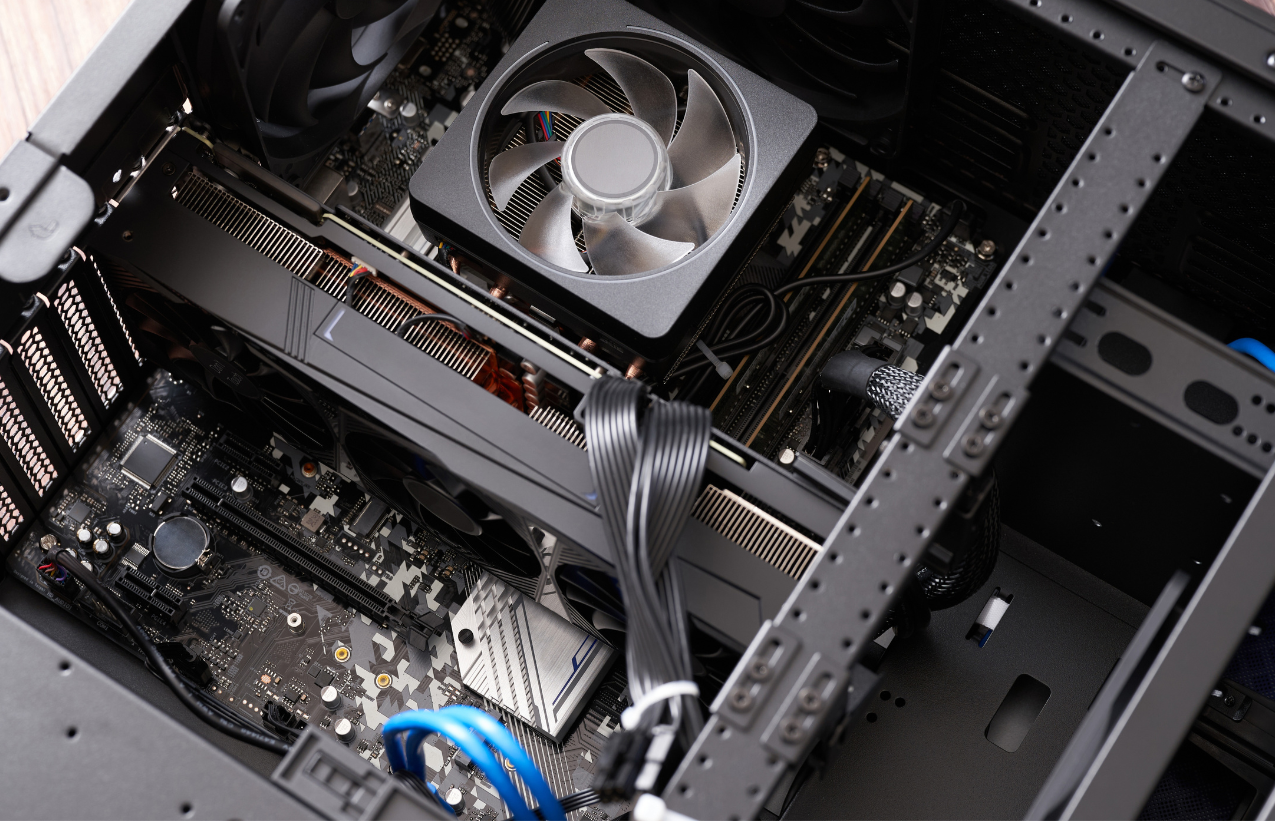
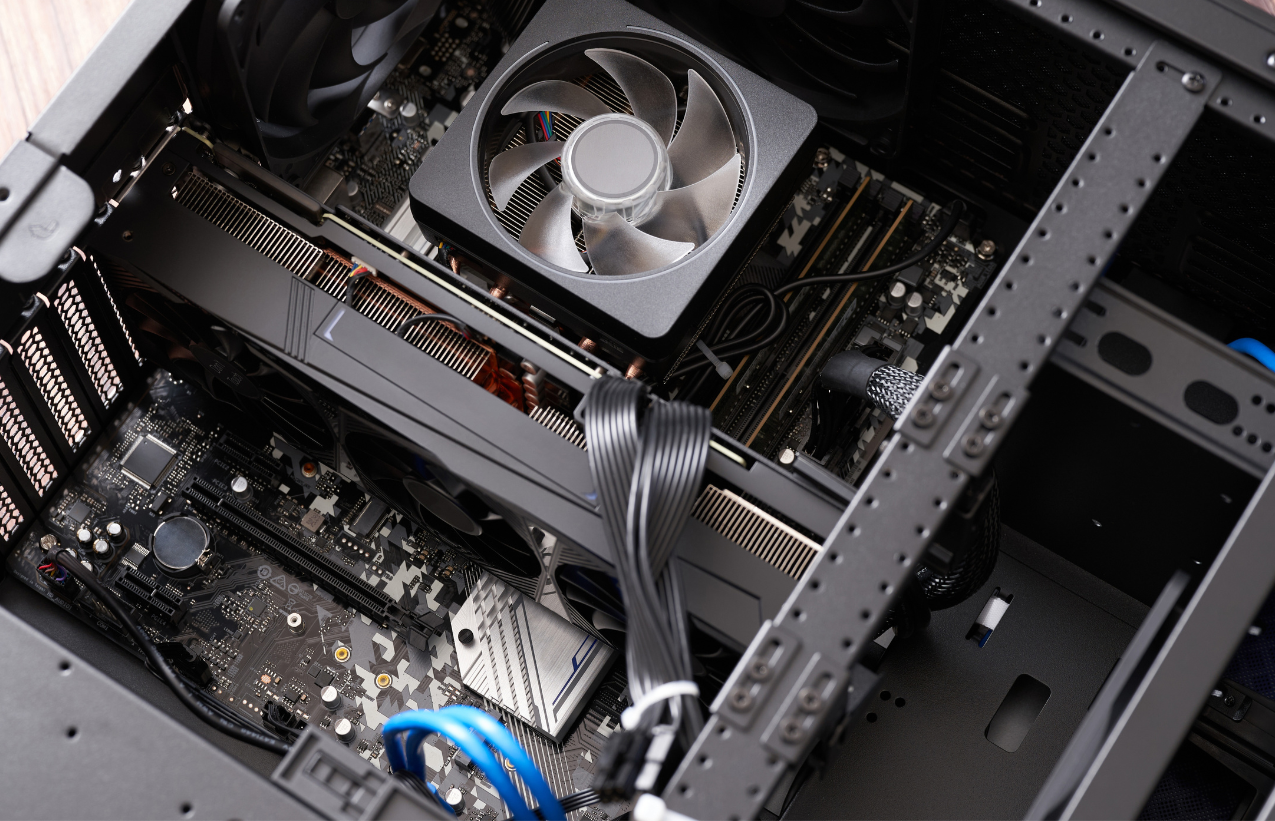
Refresh login and dashboard artwork and layout
Add reusable surface artwork and sidebar imagery, update login composition and remove the separate login layout file.

diff --git a/CustomPC/DashboardForm.Layout.cs b/CustomPC/DashboardForm.Layout.cs
@@ -15,28 +15,32 @@ public partial class DashboardForm
     private static void PaintMetric(object? sender, PaintEventArgs e)
     {
         if (sender is not Label label) return;
+        float scale = label.DeviceDpi / 96F;
+        int Px(int value) => (int)(value * scale);
         e.Graphics.SmoothingMode = System.Drawing.Drawing2D.SmoothingMode.AntiAlias;
         using SolidBrush background = new(Color.White);
         e.Graphics.FillRectangle(background, label.ClientRectangle);
         string[] lines = label.Text.Split('\n', 2);
         Font valueFont = AppFonts.Heading(label.Width < 240 ? 20 : 23);
-        while (valueFont.Size > 14 && TextRenderer.MeasureText(lines[0], valueFont).Width > label.Width - 40)
+        while (valueFont.Size > 14 && TextRenderer.MeasureText(lines[0], valueFont).Width > label.Width - Px(40))
         {
             float smaller = valueFont.Size - 1;
             valueFont.Dispose(); valueFont = AppFonts.Heading(smaller);
         }
         using Font captionFont = AppFonts.Body(10);
         using (valueFont)
-            TextRenderer.DrawText(e.Graphics, lines[0], valueFont, new Rectangle(20, 17, Math.Max(1, label.Width - 40), 40), StoreTheme.Ink,
-                TextFormatFlags.VerticalCenter | TextFormatFlags.EndEllipsis | TextFormatFlags.NoPrefix);
-        TextRenderer.DrawText(e.Graphics, lines.Length > 1 ? lines[1] : "", captionFont, new Rectangle(20, 60, Math.Max(1, label.Width - 40), 26), StoreTheme.Muted,
-            TextFormatFlags.VerticalCenter | TextFormatFlags.EndEllipsis | TextFormatFlags.NoPrefix);
+            TextRenderer.DrawText(e.Graphics, lines[0], valueFont, new Rectangle(Px(20), Px(14), Math.Max(1, label.Width - Px(40)), Px(42)), StoreTheme.Ink,
+                TextFormatFlags.Left | TextFormatFlags.VerticalCenter | TextFormatFlags.EndEllipsis | TextFormatFlags.NoPrefix);
+        TextRenderer.DrawText(e.Graphics, lines.Length > 1 ? lines[1] : "", captionFont, new Rectangle(Px(20), Px(60), Math.Max(1, label.Width - Px(40)), Px(28)), StoreTheme.Muted,
+            TextFormatFlags.Left | TextFormatFlags.VerticalCenter | TextFormatFlags.EndEllipsis | TextFormatFlags.NoPrefix);
     }
 
     private void BuildAdaptiveShell()
     {
         MinimumSize = new Size(720, 600);
         sidebar.BackColor = brand.BackColor = brandCaption.BackColor = logo.BackColor = StoreTheme.Ink;
+        SurfaceArtwork.Attach(sidebar, "sidebar.png");
+        brand.BackColor = brandCaption.BackColor = logo.BackColor = Color.Transparent;
         overviewViewport = new Panel { Name = "overviewViewport", AutoScroll = true, BackColor = StoreTheme.Background };
         overviewCanvas = new Panel { Name = "overviewCanvas", BackColor = StoreTheme.Background };
         overviewViewport.Controls.Add(overviewCanvas);
@@ -50,7 +54,13 @@ public partial class DashboardForm
         sidebar.Controls.Add(navigationCaption); sidebar.Controls.Add(accountName); sidebar.Controls.Add(accountRole);
         navigationList = new Panel { Name = "navigationList", AutoScroll = true, BackColor = StoreTheme.Ink };
         sidebar.Controls.Add(navigationList);
-        foreach (Button button in new[] { home, catalog, builder, orders, inventory, users, reports, tools }) button.Parent = navigationList;
+        navigationList.Paint += (_, e) => SurfaceArtwork.Paint(e.Graphics, navigationList);
+        navigationCaption.BackColor = accountName.BackColor = accountRole.BackColor = Color.Transparent;
+        foreach (Button button in new[] { home, catalog, builder, orders, inventory, users, reports, tools })
+        {
+            button.Parent = navigationList;
+            button.Anchor = AnchorStyles.Top | AnchorStyles.Left;
+        }
         foreach (Button button in new[] { home, catalog, builder, orders, inventory, users, reports, tools, signout })
         {
             button.AccessibleName = button.Text;
@@ -71,13 +81,15 @@ public partial class DashboardForm
             value.Font = AppFonts.Body(14, FontStyle.Bold);
             value.Paint += PaintMetric;
         }
-        shoppingActions = new FlowLayoutPanel { BackColor = StoreTheme.Ink, WrapContents = true };
+        shoppingActions = new FlowLayoutPanel { BackColor = Color.Transparent, WrapContents = true };
         var startBuild = new Button { Name = "builder", Text = "Open PC builder", BackColor = StoreTheme.Green, Size = new Size(210, 44) };
         var browse = new Button { Name = "catalog", Text = "Explore parts", BackColor = Color.White, Size = new Size(190, 44) };
         startBuild.Click += (_, _) => OpenScreen("Builder"); browse.Click += (_, _) => OpenScreen("Catalog");
         shoppingActions.Controls.Add(startBuild); shoppingActions.Controls.Add(browse); workflowSurface.Controls.Add(shoppingActions);
         workflowSurface.BackColor = StoreTheme.Ink;
-        workflowTitle.BackColor = guide.BackColor = StoreTheme.Ink;
+        SurfaceArtwork.Attach(workflowSurface, "backdrop.png", Color.FromArgb(218, 24, 43, 30));
+        workflowTitle.BackColor = guide.BackColor = Color.Transparent;
+        guide.Anchor = AnchorStyles.Top | AnchorStyles.Left;
         workflowTitle.ForeColor = Color.White; guide.ForeColor = Color.FromArgb(211, 228, 217);
         FitWorkspace();
     }
@@ -96,11 +108,12 @@ public partial class DashboardForm
             pageHost.SetBounds(side, 0, Math.Max(1, ClientSize.Width - side), ClientSize.Height);
             overviewViewport.Bounds = pageHost.Bounds;
             logo.SetBounds(Px(rail ? 18 : 22), Px(24), Px(40), Px(40));
-            brand.Visible = brandCaption.Visible = navigationCaption!.Visible = !rail;
+            brand.Visible = navigationCaption!.Visible = !rail;
+            brandCaption.Visible = false;
             brand.SetBounds(Px(72), Px(24), Px(146), Px(36));
             brandCaption.SetBounds(Px(24), Px(76), side - Px(40), Px(22));
-            navigationCaption.SetBounds(Px(24), Px(118), side - Px(40), Px(24));
-            int top = Px(rail ? 94 : 154);
+            navigationCaption.SetBounds(Px(24), Px(90), side - Px(40), Px(24));
+            int top = Px(rail ? 94 : 126);
             navigationList!.SetBounds(0, top, side, Math.Max(Px(90), ClientSize.Height - top - Px(rail ? 80 : 142)));
             top = 0;
             foreach (Button button in new[] { home, catalog, builder, orders, inventory, users, reports, tools })
@@ -170,12 +183,11 @@ public partial class DashboardForm
             }
             else
             {
-                workflowSurface.SetBounds(x, y, width, Px(210));
+                workflowSurface.SetBounds(x, y, width, Px(178));
                 workflowTitle.Text = "Build a PC. Make it yours.";
                 workflowTitle.SetBounds(Px(24), Px(22), width - Px(48), Px(48));
-                guide.Text = "Choose compatible parts, reserve your build, and pay at the store.";
-                guide.SetBounds(Px(24), Px(76), width - Px(48), Px(40));
-                shoppingActions!.SetBounds(Px(24), Px(128), width - Px(48), Px(72));
+                guide.Visible = false;
+                shoppingActions!.SetBounds(Px(24), Px(96), width - Px(48), Px(72));
                 y = workflowSurface.Bottom + Px(20);
                 Label[] values = { statParts, statOrders, statStock, statSales }; Label[] captions = { statPartsCaption, statOrdersCaption, statStockCaption, statSalesCaption };
                 int[] items = AppStore.Current.IsCustomer ? new[] { 0, 1, 2, 3 } : new[] { 0, 2, 3 };

diff --git a/CustomPC/LoginForm.Designer.cs b/CustomPC/LoginForm.Designer.cs
@@ -126,39 +126,33 @@ partial class LoginForm
         login.Cursor = Cursors.Hand;
         login.UseMnemonic = false;
         Controls.Add(login);
-        register = new Button();
+        register = new LinkLabel();
         register.Name = "register";
-        register.Location = new Point(458, 441);
-        register.Size = new Size(228, 46);
-        register.TabIndex = 13;
-        register.Text = "Create account";
-        register.Font = new Font("Roboto", 10F, FontStyle.Bold);
-        register.ForeColor = Color.FromArgb(32, 41, 35);
+        register.Text = "New to CustomPC? Create account";
+        register.LinkArea = new LinkArea(register.Text.IndexOf("Create account", StringComparison.Ordinal), "Create account".Length);
+        register.Font = new Font("Segoe UI", 10.5F);
+        register.ForeColor = StoreTheme.Muted;
+        register.LinkColor = StoreTheme.Action;
+        register.ActiveLinkColor = Color.FromArgb(14, 87, 58);
+        register.VisitedLinkColor = StoreTheme.Action;
+        register.LinkBehavior = LinkBehavior.HoverUnderline;
+        register.TextAlign = ContentAlignment.MiddleCenter;
         register.BackColor = Color.White;
-        register.FlatStyle = FlatStyle.Flat;
-        register.FlatAppearance.BorderSize = 1;
-        register.FlatAppearance.BorderColor = Color.FromArgb(112, 133, 107);
-        register.FlatAppearance.MouseOverBackColor = Color.FromArgb(235, 243, 231);
-        register.FlatAppearance.MouseDownBackColor = Color.FromArgb(224, 240, 215);
-        register.Cursor = Cursors.Hand;
-        register.UseMnemonic = false;
+        register.TabIndex = 13;
+        register.TabStop = true;
         Controls.Add(register);
-        guest = new Button();
+        guest = new LinkLabel();
         guest.Name = "guest";
-        guest.Location = new Point(700, 441);
-        guest.Size = new Size(232, 46);
-        guest.TabIndex = 14;
         guest.Text = "Browse as guest";
-        guest.Font = new Font("Roboto", 10F, FontStyle.Bold);
-        guest.ForeColor = Color.FromArgb(32, 41, 35);
+        guest.Font = new Font("Segoe UI", 10.5F);
+        guest.LinkColor = StoreTheme.Action;
+        guest.ActiveLinkColor = Color.FromArgb(14, 87, 58);
+        guest.VisitedLinkColor = StoreTheme.Action;
+        guest.LinkBehavior = LinkBehavior.HoverUnderline;
+        guest.TextAlign = ContentAlignment.MiddleCenter;
         guest.BackColor = Color.White;
-        guest.FlatStyle = FlatStyle.Flat;
-        guest.FlatAppearance.BorderSize = 1;
-        guest.FlatAppearance.BorderColor = Color.FromArgb(112, 133, 107);
-        guest.FlatAppearance.MouseOverBackColor = Color.FromArgb(235, 243, 231);
-        guest.FlatAppearance.MouseDownBackColor = Color.FromArgb(224, 240, 215);
-        guest.Cursor = Cursors.Hand;
-        guest.UseMnemonic = false;
+        guest.TabIndex = 14;
+        guest.TabStop = true;
         Controls.Add(guest);
         AutoScaleDimensions = new SizeF(7F, 17F);
         AutoScaleMode = AutoScaleMode.Font;
@@ -211,14 +205,14 @@ partial class LoginForm
         authSurface.Controls.Add(login);
         login.Location = new Point(32, 354);
         authSurface.Controls.Add(register);
-        register.Location = new Point(32, 420);
+        register.Location = new Point(32, 422);
         authSurface.Controls.Add(guest);
-        guest.Location = new Point(272, 420);
+        guest.Location = new Point(32, 464);
         email.Width = 454;
         password.Width = 454;
         login.Width = 454;
-        register.Width = 214;
-        guest.Width = 214;
+        register.Size = new Size(454, 34);
+        guest.Size = new Size(454, 34);
         ResumeLayout(false);
         PerformLayout();
     }
@@ -233,8 +227,8 @@ partial class LoginForm
     private Label passwordLabel = null!;
     private StoreTextField password = null!;
     private Button login = null!;
-    private Button register = null!;
-    private Button guest = null!;
+    private LinkLabel register = null!;
+    private LinkLabel guest = null!;
     private Label loginHero = null!;
     private Panel authSurface = null!;
 }

diff --git a/CustomPC/StoreTheme.cs b/CustomPC/StoreTheme.cs
@@ -113,12 +113,13 @@ public static class StoreTheme
         if (!button.Enabled) fill = Color.FromArgb(236, 239, 236);
         else if (state.Pressed) fill = primary ? Color.FromArgb(14, 87, 58) : Color.FromArgb(224, 233, 229);
         else if (state.Hover) fill = dark ? Color.FromArgb(40, 57, 51) : primary ? Color.FromArgb(16, 103, 68) : Color.FromArgb(241, 245, 243);
-        e.Graphics.Clear(button.Parent?.BackColor ?? Background);
+        SurfaceArtwork.Paint(e.Graphics, button);
         e.Graphics.SmoothingMode = SmoothingMode.AntiAlias;
         Rectangle bounds = new(1, 1, Math.Max(1, button.Width - 3), Math.Max(1, button.Height - 3));
         using GraphicsPath shape = RoundedRectangle(bounds, 8);
         using SolidBrush brush = new(fill);
-        e.Graphics.FillPath(brush, shape);
+        if (!navigation || selected || state.Hover || state.Pressed || !dark)
+            e.Graphics.FillPath(brush, shape);
         if (!primary && !dark && !navigation && !categoryFilter && button.Name != "details")
         {
             using Pen outline = new(Border);
@@ -138,14 +139,14 @@ public static class StoreTheme
         Rectangle textBounds = bounds;
         if (icon != "")
         {
-            int textWidth = Math.Min(Math.Max(1, button.Width - 50), TextRenderer.MeasureText(button.Text, button.Font).Width);
+            int textWidth = TextRenderer.MeasureText(button.Text, button.Font).Width;
             int iconLeft = compactNavigation ? (button.Width - 20) / 2 : navigation ? 14 : Math.Max(12, (button.Width - textWidth - 26) / 2);
             IconAssets.Paint(e.Graphics, icon, new Rectangle(iconLeft, (button.Height - 20) / 2, 20, 20), text);
             textBounds.X = iconLeft + 26; textBounds.Width = Math.Max(1, button.Width - textBounds.X - 12);
         }
         if (categoryFilter) { textBounds.X += 14; textBounds.Width -= 24; }
         TextRenderer.DrawText(e.Graphics, compactNavigation ? "" : button.Text, selected ? emphasis : button.Font, textBounds, text,
-            (navigation || categoryFilter ? TextFormatFlags.Left : TextFormatFlags.HorizontalCenter) | TextFormatFlags.VerticalCenter | TextFormatFlags.EndEllipsis | TextFormatFlags.NoPrefix);
+            (navigation || categoryFilter || icon != "" ? TextFormatFlags.Left : TextFormatFlags.HorizontalCenter) | TextFormatFlags.VerticalCenter | TextFormatFlags.EndEllipsis | TextFormatFlags.NoPrefix);
         if (button.Focused)
         {
             using var focus = RoundedRectangle(Rectangle.Inflate(bounds, -4, -4), 5);

diff --git a/CustomPC/SurfaceArtwork.cs b/CustomPC/SurfaceArtwork.cs
@@ -1,0 +1,40 @@
+namespace CustomPC;
+
+internal static class SurfaceArtwork
+{
+    private static readonly Dictionary<string, Image> images = new();
+    private sealed record Artwork(Image Image, Color Tint);
+    private static readonly System.Runtime.CompilerServices.ConditionalWeakTable<Control, Artwork> surfaces = new();
+    public static void Attach(Control control, string file, Color? tint = null)
+    {
+        if (!images.TryGetValue(file, out Image? image))
+        {
+            using Stream stream = typeof(SurfaceArtwork).Assembly.GetManifestResourceStream("CustomPC.Assets." + file)!;
+            using Image source = Image.FromStream(stream);
+            image = new Bitmap(source); images.Add(file, image);
+        }
+        surfaces.Add(control, new Artwork(image, tint ?? Color.FromArgb(100, StoreTheme.Ink)));
+        control.Paint += (_, e) => Paint(e.Graphics, control);
+        control.Resize += (_, _) => control.Invalidate(true);
+    }
+    public static void Paint(Graphics graphics, Control target)
+    {
+        Control? root = target;
+        Point offset = Point.Empty;
+        while (root != null && !surfaces.TryGetValue(root, out _))
+        {
+            offset.Offset(root.Left, root.Top); root = root.Parent;
+        }
+        using SolidBrush fill = new(root?.BackColor ?? target.Parent?.BackColor ?? target.BackColor);
+        graphics.FillRectangle(fill, target.ClientRectangle);
+        if (root == null || !surfaces.TryGetValue(root, out Artwork? artwork)) return;
+        Image image = artwork.Image;
+        float scale = Math.Max(root.Width / (float)image.Width, root.Height / (float)image.Height);
+        float width = image.Width * scale, height = image.Height * scale;
+        var state = graphics.Save(); graphics.SetClip(target.ClientRectangle);
+        graphics.DrawImage(image, (root.Width - width) / 2 - offset.X, (root.Height - height) / 2 - offset.Y, width, height);
+        // Keep text readable while retaining the supplied texture.
+        using SolidBrush shade = new(artwork.Tint);
+        graphics.FillRectangle(shade, target.ClientRectangle); graphics.Restore(state);
+    }
+}

diff --git a/CustomPC/LoginForm.cs b/CustomPC/LoginForm.cs
@@ -12,11 +12,36 @@ public partial class LoginForm : StoreWindow
         }
 
         ApplyBrandAppearance();
-        BuildLoginLayout();
+        Load += (_, _) => RestoreLoginLayout();
+        SizeChanged += (_, _) => { if (IsHandleCreated) RestoreLoginLayout(); };
         AcceptButton = login;
         login.Click += LoginButton_Click;
-        register.Click += RegisterButton_Click;
-        guest.Click += GuestButton_Click;
+        register.LinkClicked += RegisterButton_Click;
+        guest.LinkClicked += GuestButton_Click;
+    }
+
+    private void RestoreLoginLayout()
+    {
+        float scale = DeviceDpi / 96F;
+        int Px(int value) => (int)(value * scale);
+        int leftWidth = (int)(ClientSize.Width * .42F);
+        brandPanel.SetBounds(0, 0, leftWidth, ClientSize.Height);
+        authSurface.Anchor = AnchorStyles.Top | AnchorStyles.Left;
+        authSurface.SetBounds(leftWidth + Px(24), Px(24), Math.Max(Px(300), ClientSize.Width - leftWidth - Px(48)), Math.Max(Px(520), ClientSize.Height - Px(48)));
+        int width = Math.Max(1, authSurface.Width - Px(64));
+        heading.SetBounds(Px(32), Px(42), width, Px(60));
+        emailLabel.SetBounds(Px(32), Px(144), width, Px(24));
+        email.SetBounds(Px(32), Px(176), width, Px(44));
+        passwordLabel.SetBounds(Px(32), Px(244), width, Px(24));
+        password.SetBounds(Px(32), Px(276), width, Px(44));
+        login.SetBounds(Px(32), Px(354), width, Px(48));
+        register.SetBounds(Px(32), Px(422), width, Px(34));
+        guest.SetBounds(Px(32), Px(464), width, Px(34));
+        logo.SetBounds(Px(32), Px(32), Px(64), Px(43));
+        brand.SetBounds(Px(110), Px(29), Math.Max(1, leftWidth - Px(128)), Px(48));
+        brandCaption.SetBounds(Px(38), Px(88), Math.Max(1, leftWidth - Px(64)), Px(46));
+        loginHero.SetBounds(Px(38), Px(215), Math.Max(1, leftWidth - Px(64)), Px(146));
+        brandFooter.SetBounds(Px(38), Math.Max(Px(380), brandPanel.Height - Px(138)), Math.Max(1, leftWidth - Px(64)), Px(100));
     }
 
     private void ApplyBrandAppearance()

diff --git a/CustomPC/DashboardForm.cs b/CustomPC/DashboardForm.cs
@@ -127,6 +127,7 @@ public partial class DashboardForm : StoreWindow
 
     private void ExpiryTimer_Tick(object? sender, EventArgs e)
     {
+        if (!Visible || Form.ActiveForm is { Modal: true }) return;
         try
         {
             // Refresh also cancels unpaid orders whose payment deadline has passed.
@@ -591,22 +592,9 @@ public partial class DashboardForm : StoreWindow
 
     private void ArrangeRoleMenu()
     {
-        Button[] menu = { catalog, builder, orders, inventory, users, reports, tools };
-        int gap = Math.Max(4, (int)(6 * DeviceDpi / 96F));
-        int firstTop = brandCaption.Bottom + gap;
-        int count = menu.Count(button => button.Enabled) + 1;
-        int height = Math.Clamp((signout.Top - firstTop - gap * (count + 1)) / count, 30, (int)(44 * DeviceDpi / 96F));
-        home.SetBounds(16, firstTop, sidebar.Width - 32, height);
-        int nextTop = home.Bottom + gap;
-        foreach (Button button in menu)
-        {
-            button.Visible = button.Enabled;
-            if (button.Enabled)
-            {
-                button.SetBounds(16, nextTop, sidebar.Width - 32, height);
-                nextTop += height + gap;
-            }
-        }
+        // The menu is inside navigationList now; sidebar coordinates add a
+        // second header offset and leave the menu floating halfway down.
+        LayoutWorkspace();
     }
 
     private void FitWorkspace() => LayoutWorkspace();
